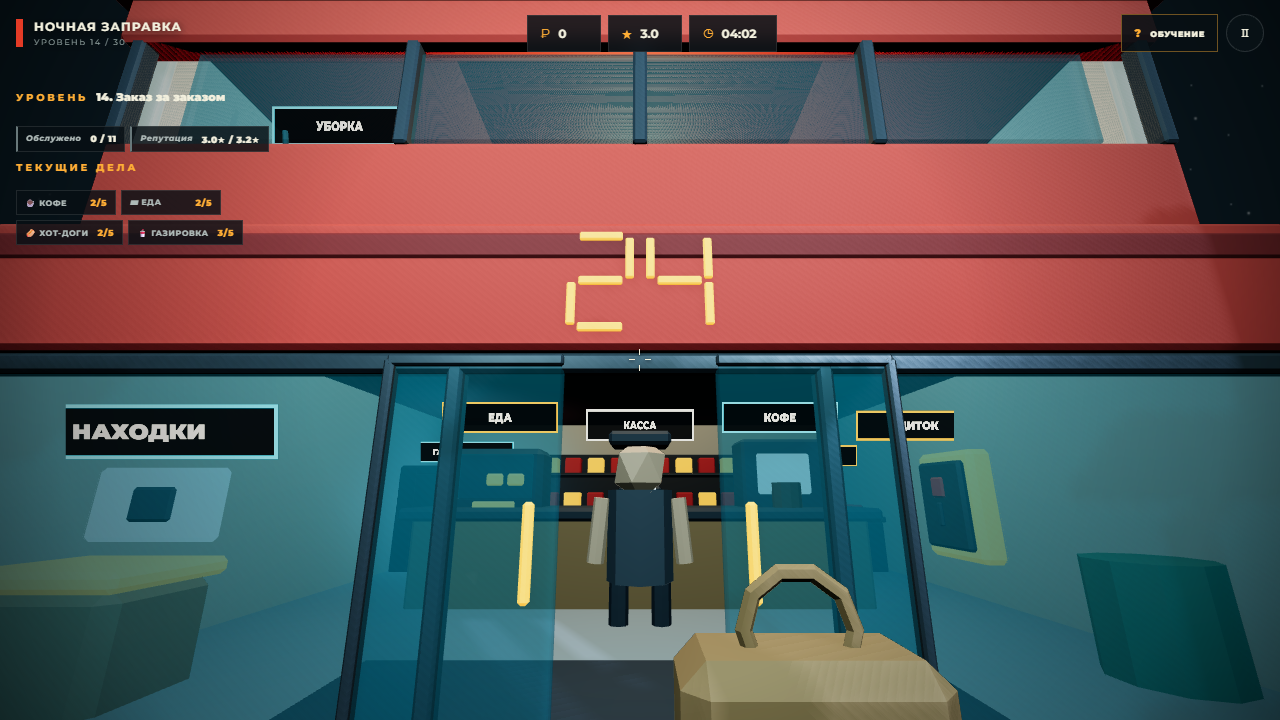
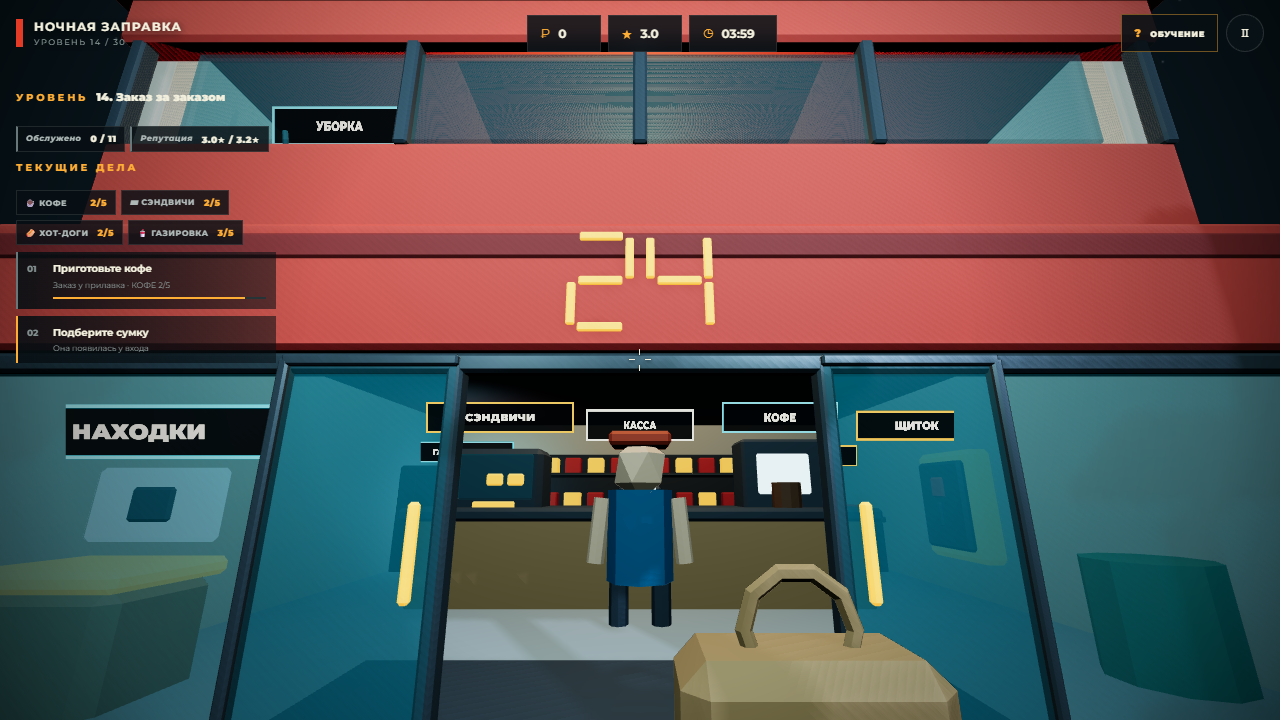
Four small things: the sign, the name, the reach and the box
The CLOSED sign hung inside the pump it belonged to, so half of it was
behind the body. It moves above the pump on the shop side, bigger and in
a harder red, clear of the POST 3 plate that shares that corner.

The counter item is called sandwiches now, everywhere it was called food:
the sign over the counter, the rack upstairs, the stock chip, the restock
lines, the chapter subtitle and the level briefs.

Fuelling had the same reach as everything else, so a car filled up from
two and a half metres away while you faced the shop. It now has its own,
shorter reach and wants you pointed at the filler: stand at the hatch and
look at the car, or the prompt tells you to aim the nozzle. Every other
job is unchanged.

Taking one box off the rack emptied the whole rack. Boxes are grouped by
their place on the shelf now, so one trip removes one box and delivering
it puts that one back.

diff --git a/src/content/levels.js b/src/content/levels.js
@@ -8,7 +8,7 @@ import { VEHICLES, normalizeFleet } from './vehicles.js';
 
 export const CHAPTERS = Object.freeze([
   Object.freeze({ number: 1, title: 'Первые ночи', subtitle: 'Колонка, пистолет и один клиент за раз' }),
-  Object.freeze({ number: 2, title: 'Магазин', subtitle: 'Кофе, еда и склад на втором этаже' }),
+  Object.freeze({ number: 2, title: 'Магазин', subtitle: 'Кофе, сэндвичи и склад на втором этаже' }),
   Object.freeze({ number: 3, title: 'Три поста', subtitle: 'Очередь, левая колонка и те, кто спешит' }),
   Object.freeze({ number: 4, title: 'Железо', subtitle: 'Колонки ломаются, а топливо привозят по ночам' }),
   Object.freeze({ number: 5, title: 'Темнота', subtitle: 'Свет гаснет, а трасса не ждёт' }),
@@ -182,10 +182,10 @@ export const CAMPAIGN_LEVELS = Object.freeze([
     rushes: [{ at: 110, duration: 32, interval: [7, 10], label: 'Колонна с трассы' }],
   }),
 
-  /* ── Глава 2. Магазин: еда, пустые полки и склад наверху ── */
+  /* ── Глава 2. Магазин: сэндвичи, пустые полки и склад наверху ── */
   defineLevel({
     number: 6, chapter: 2, name: 'Сэндвич в дорогу',
-    brief: 'К кофе добавилась еда: витрина стоит на прилавке справа. Заказов теперь два вида, а руки по-прежнему одни.',
+    brief: 'К кофе добавились сэндвичи: витрина стоит на прилавке справа. Заказов теперь два вида, а руки по-прежнему одни.',
     duration: 215, goal: { served: 7 },
     carSpawn: { initialDelay: 1, interval: [17, 22] },
     customerPatience: 52, orderIntensity: 0.6, orderMenu: ['coffee', 'snack'],
@@ -519,7 +519,7 @@ export function featureTags(level) {
   if (level.queueSize > 1) tags.push('очередь');
   if (level.startStock.coffee + level.startStock.snack < 8) tags.push('склад');
   if (level.orderIntensity >= 0.8) tags.push('поток заказов');
-  else if (level.orderMenu.includes('snack')) tags.push('кофе и еда');
+  else if (level.orderMenu.includes('snack')) tags.push('кофе и сэндвичи');
   else if (level.orderMenu.includes('coffee')) tags.push('кофе');
   if (!tags.length) tags.push('основы');
   return tags.slice(0, 4);

diff --git a/src/content/menu.js b/src/content/menu.js
@@ -39,8 +39,8 @@ export const STOCKS = Object.freeze({
     source: 'upstairs', carry: 'coffeeBox', target: 'Пополните кофемашину', where: 'Склад на 2 этаже · лестница снаружи справа',
   }),
   snack: Object.freeze({
-    id: 'snack', label: 'еды', chip: 'ЕДА', gone: 'Еда закончилась', full: 'Витрина и так полная',
-    source: 'upstairs', carry: 'snackBox', target: 'Пополните витрину еды', where: 'Склад на 2 этаже · лестница снаружи справа',
+    id: 'snack', label: 'сэндвичей', chip: 'СЭНДВИЧИ', gone: 'Еда закончилась', full: 'Витрина и так полная',
+    source: 'upstairs', carry: 'snackBox', target: 'Пополните витрину сэндвичей', where: 'Склад на 2 этаже · лестница снаружи справа',
   }),
   hotdog: Object.freeze({
     id: 'hotdog', label: 'хот-догов', chip: 'ХОТ-ДОГИ', gone: 'Хот-доги закончились', full: 'Гриль и так полный',

diff --git a/index.html b/index.html
@@ -30,7 +30,7 @@
     <div class="eyebrow">ТЕКУЩИЕ ДЕЛА</div>
     <div id="stock-status" aria-label="Запасы магазина">
       <span id="coffee-chip" class="hidden">☕ КОФЕ <b id="stock-coffee">5/5</b></span>
-      <span id="snack-chip" class="hidden">▰ ЕДА <b id="stock-snack">5/5</b></span>
+      <span id="snack-chip" class="hidden">▰ СЭНДВИЧИ <b id="stock-snack">5/5</b></span>
       <span id="hotdog-chip" class="hidden">🌭 ХОТ-ДОГИ <b id="stock-hotdog">5/5</b></span>
       <span id="soda-chip" class="hidden">🥤 ГАЗИРОВКА <b id="stock-soda">5/5</b></span>
       <span id="fuel-chip" class="hidden">⛽ ТОПЛИВО <b id="stock-fuel">∞</b></span>

diff --git a/README.md b/README.md
@@ -23,7 +23,7 @@
 - **Ночное небо.** Над трассой висит луна с ореолом, вокруг — звёздное небо с млечным путём и редкими метеорами. Лунный свет падает именно оттуда, где нарисована луна, а само небо не ловит туман и едет за камерой, поэтому кажется бесконечно далёким.
 - **Рассвет.** Последнюю минуту смены небо отрабатывает само: над трассой справа разгорается тёплая полоса, звёзды и млечный путь гаснут, луна бледнеет, туман редеет, а площадка светлеет. Конец смены становится видно раньше, чем на него посмотришь в часы, — и на этом же рассвете заканчивается кампания.
 - **Прыжок.** `Space` на ПК и кнопка «Прыжок» на телефоне. Прыжок работает только по вертикали: перепрыгнуть прилавок, колонку или машину нельзя, зато предмет в руках отстаёт в полёте и проседает при приземлении.
-- **Склад на втором этаже.** Всё, чем торгует прилавок, и весь инвентарь лежат наверху: наружная лестница справа от магазина ведёт на площадку, дверь склада открывается сама. Четыре стеллажа с цветными лентами — кофе, еда, хот-доги, газировка — а у двери верстак с инструментом и швабра с ведром. Коробку можно взять в любой момент: и по заданию смены, и заранее, пока очереди нет; если запас полон, полка ничего не отдаст. Передумали — коробка возвращается на место. Витрины внизу пустеют на глазах: по кофейнику, сэндвичам, сосискам на гриле и банкам в холодильнике видно, сколько осталось.
+- **Склад на втором этаже.** Всё, чем торгует прилавок, и весь инвентарь лежат наверху: наружная лестница справа от магазина ведёт на площадку, дверь склада открывается сама. Четыре стеллажа с цветными лентами — кофе, сэндвичи, хот-доги, газировка — а у двери верстак с инструментом и швабра с ведром. Коробку можно взять в любой момент: и по заданию смены, и заранее, пока очереди нет; если запас полон, полка ничего не отдаст. Передумали — коробка возвращается на место. Витрины внизу пустеют на глазах: по кофейнику, сэндвичам, сосискам на гриле и банкам в холодильнике видно, сколько осталось.
 - **Итоги смены.** На рассвете смена закрывается: показываются заработок, число обслуженных клиентов, репутация и рекорд заработка за смену. Оттуда же открывается станция и предлагается rewarded-реклама.
 - **Станция за ночную выручку.** Деньги тратятся не на проценты в невидимой формуле, а на саму заправку: рабочие ботинки, вторая кофемашина на прилавке, прожекторы над площадкой, подсвеченный щит у трассы, скоростные насосы, третий пост навсегда и тележка для коробок, которая заменяет четыре подъёма на склад одним. Каждое улучшение покупается один раз и стоит от одной до трёх ночей работы, открывается по ходу кампании и остаётся с игроком навсегда — поэтому работать лучше, чем «на зачёт», выгодно. Всё выкупленное видно на площадке: мачты со светом, щит у дороги, вторая машина за прилавком, тележка у стеллажей. Ночи, где колонки закрыты аварией, выкупленный пост не открывает — там закрытая колонка и есть задание.
 
